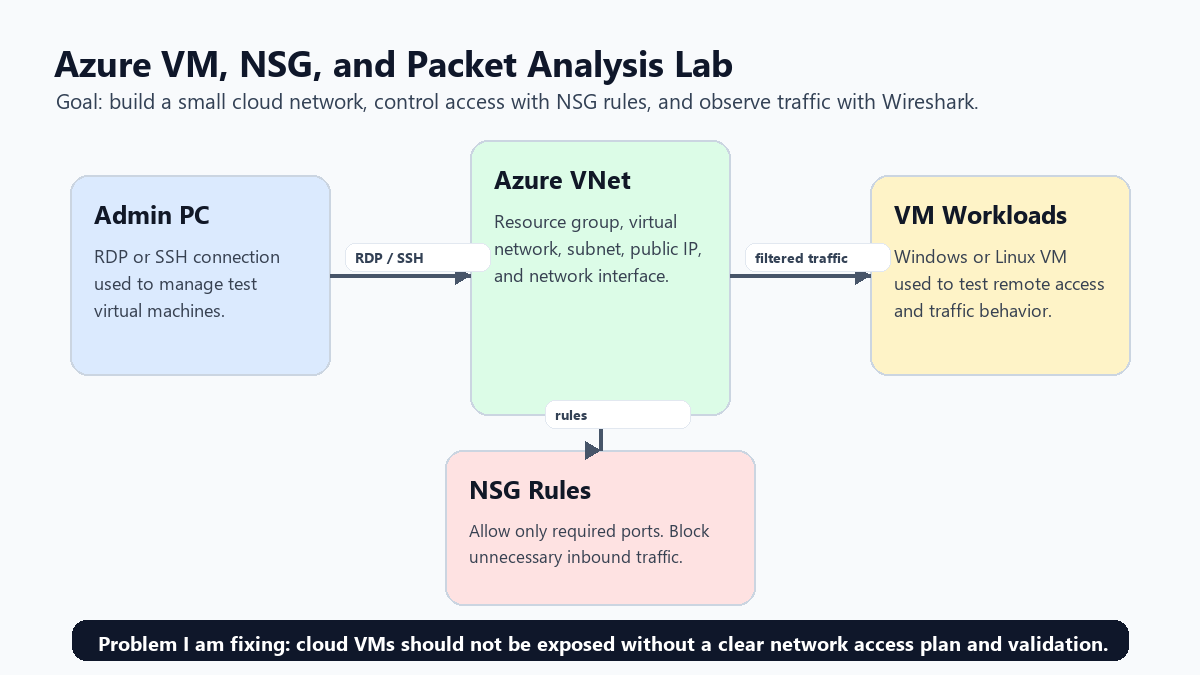
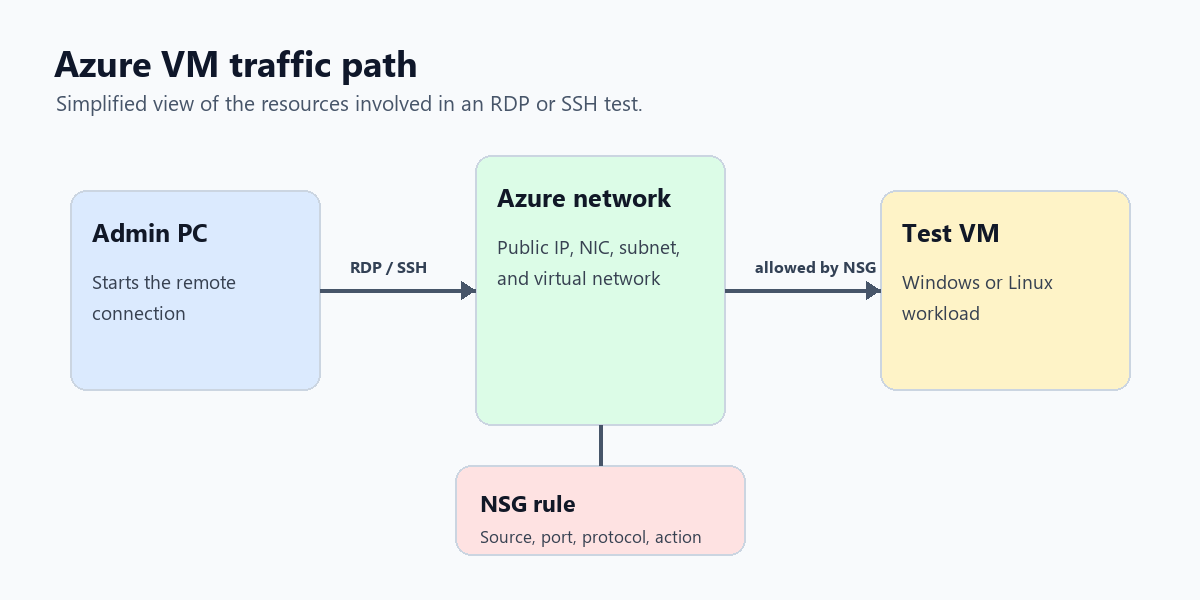
Tighten Azure lab notes and scope

Changed region(s): [[0.0308, 0.06, 0.9558, 0.99]]

diff --git a/README.md b/README.md
@@ -1,121 +1,90 @@
-# Microsoft Azure VM, NSG, and Packet Analysis Lab
+# Azure VM Networking Lab
 
-I built this lab to practice the basics of running a virtual machine in Azure and controlling how traffic reaches it. The main focus was not just "create a VM," but understanding what sits around it: the resource group, virtual network, subnet, public IP, network interface, and Network Security Group rules.
+This lab follows the network path around an Azure virtual machine: resource group, virtual network, subnet, network interface, public IP, and Network Security Group. I used RDP or SSH as the test traffic and Wireshark as a second way to see what happened during a connection attempt.
 
-![Azure VM and NSG lab map](assets/azure-vm-nsg-lab-map.png)
+![Azure VM traffic path](assets/azure-vm-nsg-lab-map.png)
 
-## My Goal
+## What I Wanted to Understand
 
-My goal was to deploy a cloud virtual machine, control remote access with NSG rules, and use packet analysis to understand what traffic looks like when a machine is reachable over the network.
+Creating a VM in the portal is straightforward. The part I wanted to slow down and examine was everything that makes the connection possible:
 
-The specific things I wanted to practice were:
+- Which Azure resource owns the public address?
+- Where does the VM sit inside the private network?
+- Which NSG rule allows the management connection?
+- What changes when a rule is too broad, missing, or attached in the wrong place?
+- What traffic can I see from inside the VM?
 
-- Creating an Azure resource group
-- Deploying a Windows or Linux virtual machine
-- Understanding the virtual network and subnet created with the VM
-- Configuring Network Security Group rules for RDP or SSH
-- Testing remote access
-- Using Wireshark to observe traffic behavior
+## Lab Pieces
 
-## The Problem I Was Fixing
-
-Cloud VMs are easy to create, but they can also be easy to expose by mistake. If RDP or SSH is left open to the internet without a plan, the VM becomes a bigger risk than it needs to be.
-
-This project helped me practice a safer way to think about access:
-
-1. Know what service needs to be reachable.
-2. Allow only the port needed for the lab.
-3. Keep the rule scoped as tightly as possible.
-4. Test the connection.
-5. Review the traffic and confirm the rule is doing what I expected.
-
-## Skills I Practiced
-
-- Azure virtual machine deployment
-- Resource group organization
-- Virtual network and subnet basics
-- Network Security Group rule planning
-- RDP and SSH access concepts
-- Packet capture with Wireshark
-- Basic cloud troubleshooting and documentation
-
-## What I Built
-
-| Component | What it was used for |
+| Resource | Use in this lab |
 | --- | --- |
-| Resource group | Kept the lab resources organized in one place |
-| Virtual machine | Test machine for remote access and traffic review |
-| Virtual network | Provided the private network space for the VM |
-| Subnet | Placed the VM inside a defined network segment |
-| Public IP | Allowed temporary remote access for the lab |
-| Network Security Group | Controlled inbound traffic to the VM |
-| Wireshark | Used to view and filter traffic during testing |
+| Resource group | Keeps the VM and its network resources together |
+| Virtual network | Provides the private address space |
+| Subnet | Places the VM in a defined network segment |
+| Network interface | Connects the VM to the subnet |
+| Public IP | Temporary endpoint for the remote-access test |
+| Network Security Group | Filters inbound traffic before it reaches the VM |
+| Wireshark | Captures traffic seen by the guest operating system |
 
-## Lab Walkthrough With Screenshots
+The traffic path is described in more detail in [docs/network-design.md](docs/network-design.md).
 
-### Creating the Virtual Machine
+## Screenshots From the Build
 
-The first step was building the VM and choosing the basic settings for the lab.
+### VM Creation
 
 ![Azure VM creation screen](https://imgur.com/ckUj7LJ.png)
 
 ![Azure VM configuration screen](https://imgur.com/pvjGl9G.png)
 
-### Creating the Resource Group
-
-I used a resource group so the VM, network, public IP, and related resources were grouped together and easier to clean up after the lab.
+### Resource Group
 
 ![Azure resource group screen](https://imgur.com/wb6YuaA.png)
 
-### Reviewing the NSG
-
-The Network Security Group is the part of the lab that controls what inbound traffic is allowed to reach the VM.
+### Network Security Group
 
 ![Azure NSG configuration screen](https://imgur.com/3Ze8Dbx.png)
 
-## NSG Rule Plan
+## Rule Choices
 
-For a lab, the rule plan is simple, but the thinking matters. I only want to allow the access needed for testing.
+For this lab, management access is the only inbound traffic I need:
 
-| Scenario | Port | Protocol | Notes |
+| Test | Port | Protocol | Source |
 | --- | --- | --- | --- |
-| Windows remote access | `3389` | TCP | RDP should be restricted to my current public IP when possible |
-| Linux remote access | `22` | TCP | SSH should be restricted to my current public IP when possible |
-| ICMP testing | N/A | ICMP | Useful for testing, but not always required |
-| Everything else | Any | Any | Should stay denied unless there is a specific reason |
+| RDP to a Windows VM | `3389` | TCP | My current public IP when possible |
+| SSH to a Linux VM | `22` | TCP | My current public IP when possible |
 
-## Validation Checklist
+I would not leave either rule open to the whole internet after testing. The decision notes are in [docs/nsg-rule-plan.md](docs/nsg-rule-plan.md).
 
-- VM was created inside the correct resource group.
-- VM was attached to the expected virtual network and subnet.
-- Public IP was assigned only for remote access testing.
-- NSG rule allowed the required management port.
-- Unneeded inbound access was not intentionally opened.
-- Remote access was tested.
-- Wireshark was used to observe traffic during testing.
+## How I Checked the Setup
 
-## Supporting Notes
+1. Confirmed the VM was running and attached to the expected subnet.
+2. Confirmed the public IP belonged to the correct network interface.
+3. Checked the NSG association and inbound rule priority.
+4. Attempted the RDP or SSH connection.
+5. Checked the guest firewall and service if the connection failed.
+6. Captured traffic with Wireshark during a controlled test.
 
-I split the detailed notes into smaller documents so the README stays readable:
+The complete checklist is in [docs/validation-checklist.md](docs/validation-checklist.md). Wireshark filters and observations are in [docs/packet-analysis-notes.md](docs/packet-analysis-notes.md).
 
-| Document | Purpose |
-| --- | --- |
-| [Network design notes](docs/network-design.md) | How the Azure resources fit together |
-| [NSG rule notes](docs/nsg-rule-plan.md) | How I thought about inbound access rules |
-| [Packet analysis notes](docs/packet-analysis-notes.md) | Basic Wireshark filters and what I was looking for |
-| [Validation checklist](docs/validation-checklist.md) | Checks I would run before calling the lab complete |
-| [Troubleshooting notes](docs/troubleshooting-notes.md) | Common issues and where I would look first |
+## Troubleshooting Order
 
-## What I Learned
+When the connection does not work, I check the path from outside to inside:
 
-The biggest takeaway is that Azure networking is more than just giving a VM a public IP. The VM depends on several connected resources, and the NSG is one of the most important places to understand before exposing anything to the internet.
+1. VM state and public IP
+2. NSG rule, source, port, and priority
+3. NSG association to the subnet or NIC
+4. Guest operating system firewall
+5. RDP or SSH service inside the VM
 
-I also got more comfortable thinking through traffic flow: where the connection starts, which rule allows it, where it lands, and how to confirm it with testing.
+More detail is in [docs/troubleshooting-notes.md](docs/troubleshooting-notes.md).
 
-## What I Would Improve Next
+## Scope and Limits
 
-- Restrict management access to a known source IP instead of using broad inbound rules.
-- Use Azure Bastion instead of exposing RDP or SSH directly.
-- Add Azure Network Watcher flow logs for better traffic visibility.
-- Add a second VM to test private subnet-to-subnet communication.
-- Document cleanup steps so unused public IPs and disks do not stay behind.
+- This is a small lab, not a production Azure design.
+- The public IP exists for testing; Azure Bastion or private connectivity would be a better long-term approach.
+- The screenshots document VM, resource group, and NSG setup. They do not show Network Watcher flow logs or a Bastion deployment.
+- Wireshark shows traffic visible to the guest. It does not replace Azure platform logging.
+
+## Next Lab
+
+I would add a second VM without a public IP, test private communication between the two machines, and compare the result with an NSG rule that blocks one direction. Afterward, I would delete the resource group and confirm that no public IPs or managed disks were left behind.

diff --git a/docs/network-design.md b/docs/network-design.md
@@ -1,35 +1,26 @@
 # Network Design Notes
 
-This lab uses a simple Azure setup: one resource group, one virtual machine, one virtual network, one subnet, a public IP for remote access testing, and a Network Security Group to control inbound traffic.
+![Azure VM traffic path](../assets/azure-vm-nsg-lab-map.png)
 
-![Azure VM and NSG lab map](../assets/azure-vm-nsg-lab-map.png)
+The VM is only one part of the connection. Its network interface sits in a subnet inside a virtual network. A public IP makes the interface reachable from outside Azure, while the NSG decides whether the test traffic is allowed through.
 
-## My Goal
+## Connection Path
 
-I wanted to understand how the basic Azure networking pieces connect to each other. A VM is not just a VM by itself. It is attached to a network interface, which sits in a subnet, which belongs to a virtual network. If the VM needs internet-facing access, it also needs a public IP and an NSG rule that allows the traffic.
+1. My computer starts an RDP or SSH connection to the public IP.
+2. Azure evaluates the NSG rules associated with the NIC or subnet.
+3. Allowed traffic reaches the VM network interface.
+4. The guest firewall evaluates the connection again.
+5. RDP or SSH responds only if the service is running and the credentials are valid.
 
-## Resource Layout
+## Resources to Check
 
-| Resource | Why it matters |
+| Resource | Useful question |
 | --- | --- |
-| Resource group | Keeps all lab resources together |
-| Virtual network | Defines the private network space |
-| Subnet | Places the VM inside a smaller network segment |
-| Network interface | Connects the VM to the subnet |
-| Public IP | Allows temporary remote access from outside Azure |
-| NSG | Controls what traffic is allowed in or out |
+| Resource group | Are all lab resources grouped together for cleanup? |
+| Virtual network | Is the address space what I expected? |
+| Subnet | Is the VM on the correct segment? |
+| Network interface | Does it have the correct private and public IP configuration? |
+| NSG | Is it attached where I think it is? |
+| Public IP | Is this still needed after the test? |
 
-## Traffic Flow
-
-1. My computer starts an RDP or SSH session.
-2. The connection goes to the VM public IP.
-3. Azure checks the NSG rule.
-4. If the rule allows the port and source, traffic reaches the network interface.
-5. The VM accepts the connection if the operating system firewall and service are configured correctly.
-
-## Design Notes
-
-- I treated public access as temporary for the lab.
-- I used the NSG as the first place to control inbound traffic.
-- I kept the design small so troubleshooting would be easier.
-- In a stronger setup, I would use Azure Bastion or a VPN instead of exposing management ports directly.
+The design intentionally stays small. A later version would remove the VM public IP and use Bastion, a VPN, or another private management path.

diff --git a/docs/nsg-rule-plan.md b/docs/nsg-rule-plan.md
@@ -1,35 +1,24 @@
-# NSG Rule Plan
+# NSG Rule Notes
 
-The Network Security Group was the main security control in this lab. My goal was to allow only the traffic needed for testing and avoid opening unnecessary inbound access.
+The NSG is the main Azure-side filter in this lab. I only need one management port at a time, so the rule should be narrow and temporary.
 
-## The Problem
+## Test Rules
 
-When a VM has a public IP, management ports can become reachable from the internet if the NSG is too open. RDP and SSH are useful for administration, but they should not be casually exposed.
-
-## Rules I Practiced
-
-| Purpose | Direction | Port | Protocol | Source | Action |
+| Use | Direction | Port | Protocol | Source | Action |
 | --- | --- | --- | --- | --- | --- |
-| RDP to Windows VM | Inbound | `3389` | TCP | My public IP when possible | Allow |
-| SSH to Linux VM | Inbound | `22` | TCP | My public IP when possible | Allow |
-| Default inbound protection | Inbound | Any | Any | Internet | Deny by default |
+| RDP to Windows | Inbound | `3389` | TCP | My public IP | Allow |
+| SSH to Linux | Inbound | `22` | TCP | My public IP | Allow |
 
-## How I Would Review a Rule
+The default inbound deny remains in place for traffic that does not match an allow rule.
 
-Before leaving a rule enabled, I would ask:
+## Review Before Testing
 
-- Do I still need this port open?
-- Is the source restricted, or is it open to the internet?
-- Is the priority correct?
-- Does the operating system firewall also allow the traffic?
-- Can I replace public access with Bastion, VPN, or another safer method?
+- Confirm the rule is attached to the correct NIC or subnet.
+- Confirm the source is my current public IP, not `Any`.
+- Check rule priority for conflicts.
+- Open only the port used by the current VM.
+- Confirm the guest firewall has a matching rule.
 
-## Safer Admin Access Notes
+## Cleanup
 
-For a short lab, exposing RDP or SSH can be acceptable if I understand the risk and clean up afterward. For a real environment, I would prefer:
-
-- Azure Bastion
-- VPN access
-- Just-in-time VM access
-- Restricting source IPs
-- Disabling public IP access when not needed
+After the test, I would remove the temporary rule or the public IP. For a longer-lived VM, I would use Bastion, private connectivity, or just-in-time access instead of leaving RDP or SSH exposed.

diff --git a/docs/packet-analysis-notes.md b/docs/packet-analysis-notes.md
@@ -1,35 +1,21 @@
-# Packet Analysis Notes
+# Wireshark Notes
 
-I used Wireshark in this lab to get more comfortable looking at traffic instead of only trusting that a connection worked. The point was not deep packet forensics. The point was to connect the Azure NSG rule to real traffic I could observe.
+The capture method was simple: start Wireshark on the VM, begin a controlled RDP, SSH, or ping test, stop the capture, then filter for the expected protocol. This keeps the capture small enough to read.
 
-## My Goal
+## Filters Used
 
-I wanted to answer a few simple questions:
-
-- Do I see traffic when I try to connect?
-- What protocol or port is being used?
-- Is the traffic going to the expected destination?
-- Does the traffic pattern change when access is blocked or allowed?
-
-## Useful Wireshark Filters
-
-| Filter | What it helps show |
+| Filter | Use |
 | --- | --- |
 | `tcp.port == 3389` | RDP traffic |
 | `tcp.port == 22` | SSH traffic |
 | `icmp` | Ping traffic |
-| `ip.addr == x.x.x.x` | Traffic to or from one IP address |
-| `tcp.flags.syn == 1` | New TCP connection attempts |
+| `ip.addr == x.x.x.x` | Traffic to or from one host |
+| `tcp.flags.syn == 1` | TCP connection attempts |
 
-## What I Was Looking For
+## Reading the Result
 
-| Observation | What it can mean |
-| --- | --- |
-| SYN packets with no response | Traffic may be blocked or the service may not be listening |
-| Successful TCP handshake | The port is reachable and responding |
-| Repeated retries | Connectivity or firewall issue |
-| No packets visible | Wrong interface, wrong filter, or traffic is not reaching the machine |
+- A TCP handshake shows that the connection reached a listening service.
+- Repeated SYN packets without a response point to a blocked path or a service that is not listening.
+- No matching packets can mean the wrong capture interface, an overly narrow display filter, or traffic blocked before it reached the VM.
 
-## Notes
-
-Wireshark is most useful when paired with a clear test. For example, I would start a capture, attempt RDP or SSH, stop the capture, and then filter for that port. That makes the capture easier to read.
+Wireshark only shows packets visible to the guest. For Azure-side flow records, I would use Network Watcher or another platform logging option.
